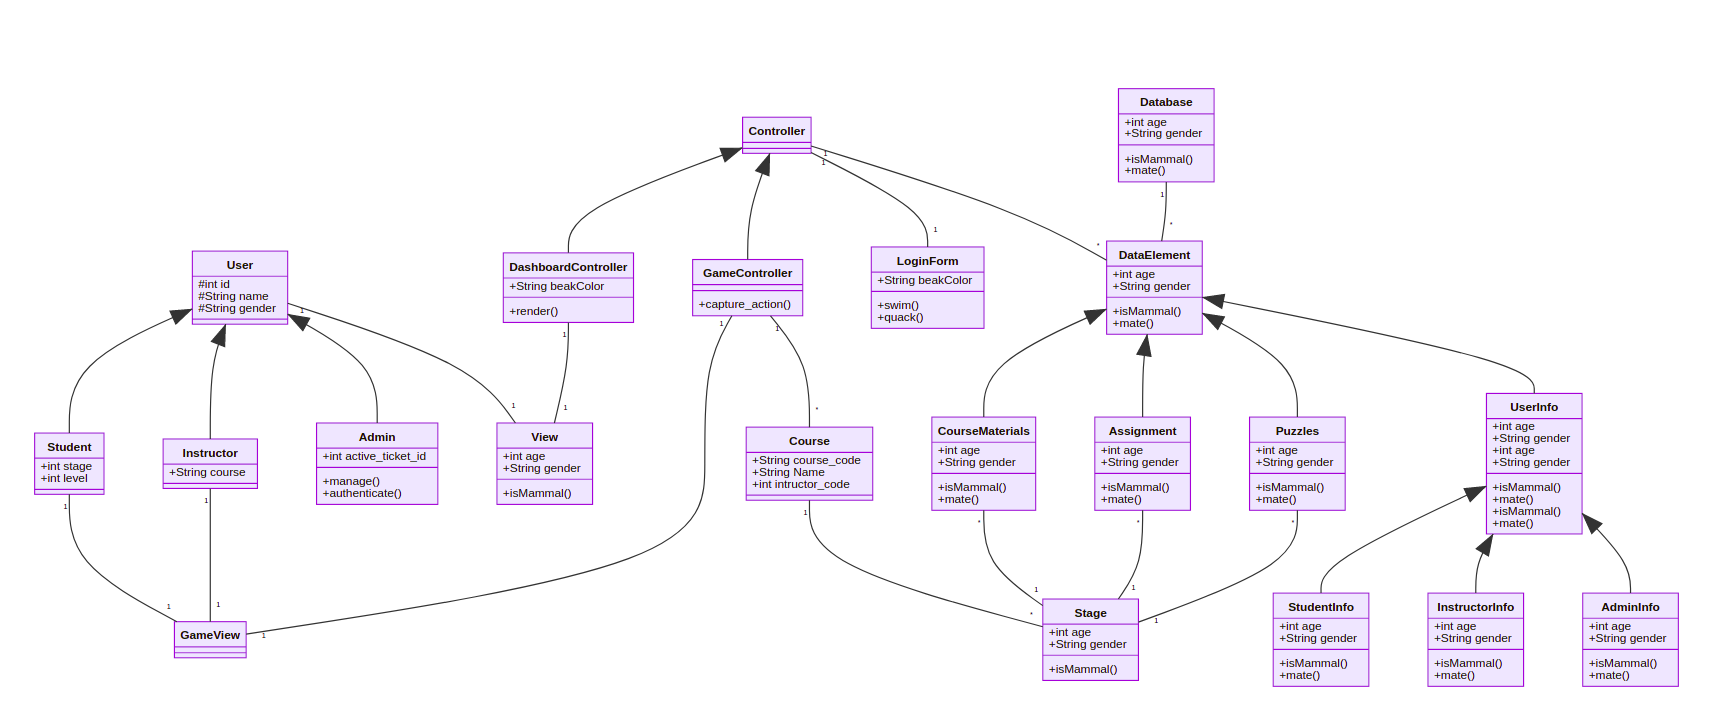
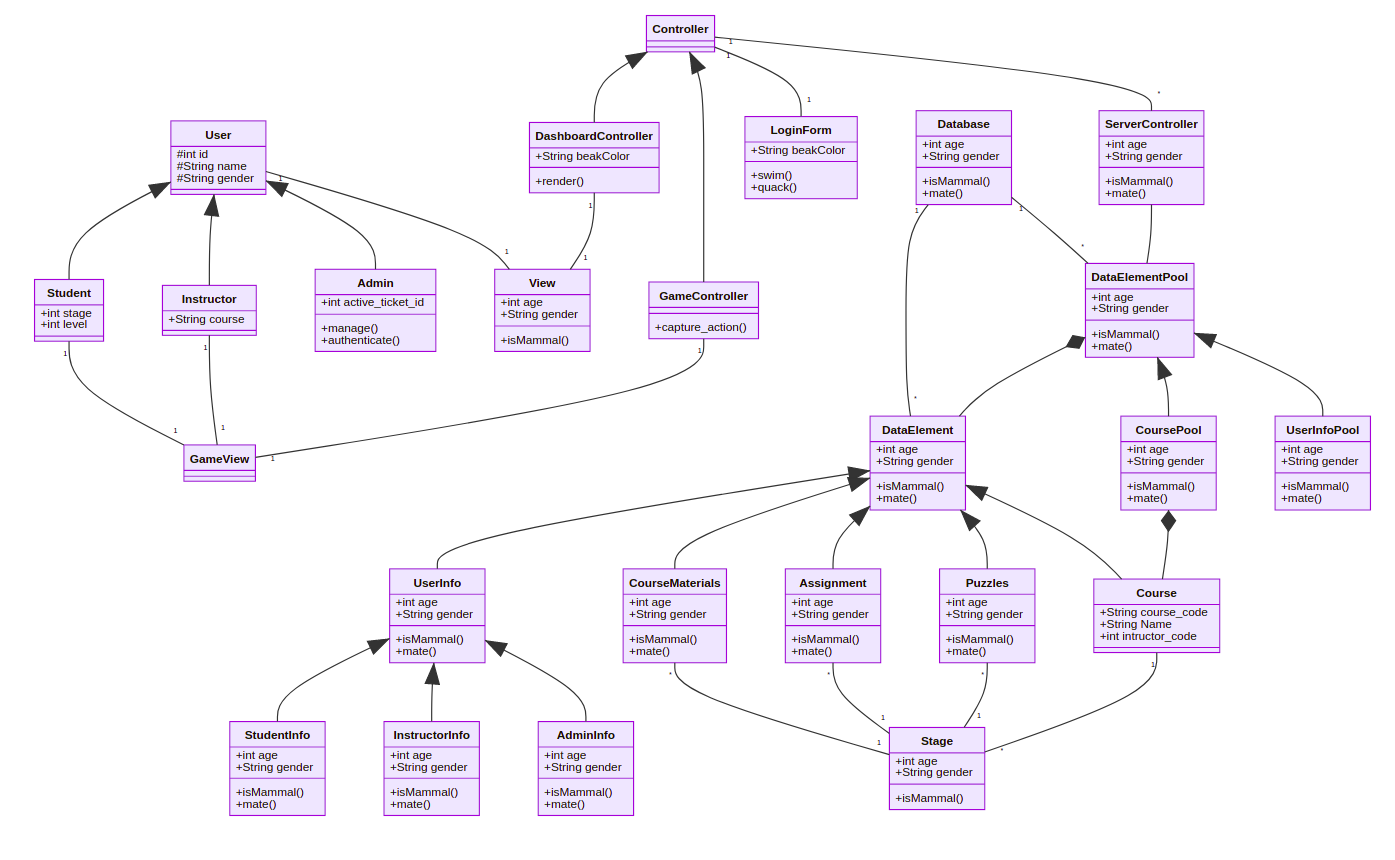
adding modification to class diagram

diff --git a/Assignment_2/class_draft/class_main.md b/Assignment_2/class_draft/class_main.md
@@ -14,25 +14,33 @@ Instructor "1"--"1" GameView
 
 GameController "1"--"1" GameView
 
-Controller <|-- GameController
 Controller <|-- DashboardController
+Controller <|-- GameController
 
 DashboardController "1"--"1" View
 Controller "1"--"1" LoginForm
-Controller "1"--"*" DataElement
-GameController "1"--"*" Course
+Controller "1"--"*" ServerController
 
+
+ServerController -- DataElementPool
+DataElementPool *-- DataElement
 
 Course "1"--"*" Stage
 CourseMaterials "*"--"1" Stage
 Assignment "*"--"1" Stage
 Puzzles "*"--"1" Stage
 
+CoursePool *-- Course
+
+DataElementPool <|-- CoursePool
+DataElementPool <|-- UserInfoPool
+
 DataElement <|-- UserInfo
 DataElement <|-- CourseMaterials
 DataElement <|-- Assignment
 DataElement <|-- Puzzles
 DataElement <|-- UserInfo
+DataElement <|-- Course
 
 UserInfo <|-- StudentInfo
 UserInfo <|-- InstructorInfo
@@ -41,6 +49,7 @@ UserInfo <|-- AdminInfo
 
 
 Database "1"--"*" DataElement
+Database "1"--"*" DataElementPool
 
 class User{
 #int id
@@ -90,7 +99,8 @@ class GameController{
 +capture_action()
 }
 
-class UserInfo{
+
+class ServerController{
 +int age
 +String gender
 +isMammal()
@@ -98,6 +108,13 @@ class UserInfo{
 }
 
 class UserInfo{
++int age
++String gender
++isMammal()
++mate()
+}
+
+class UserInfoPool{
 +int age
 +String gender
 +isMammal()
@@ -128,12 +145,21 @@ class AdminInfo{
 +mate()
 }
 
+
+
 class Course{
 +String course_code
 +String Name
 +int intructor_code
 }
 
+
+class CoursePool{
++int age
++String gender
++isMammal()
++mate()
+}
 
 class Stage{
 +int age
@@ -166,7 +192,6 @@ class Assignment{
 
 
 
-
 class DataElement{
 +int age
 +String gender
@@ -175,10 +200,14 @@ class DataElement{
 }
 
 
-DataElement <|-- CourseMaterials
-DataElement <|-- Assignment
-DataElement <|-- Puzzles
-DataElement <|-- UserInfo
+class DataElementPool{
++int age
++String gender
++isMammal()
++mate()
+}
+
+
 
 class Database{
 +int age
